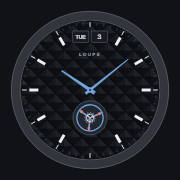
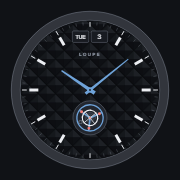
feat(waitlist): a larger, truer balance wheel in the tourbillon (#9)
Hoover: the balance was small for a balance wheel. As on a real
tourbillon it is now the cage's largest part: a 4.7-unit rim (was 2.2)
with four timing weights and four arms, over a hairspring whose inner
end turns with the balance while its outer end stays pinned, so the
coils breathe as it swings. The escape wheel moves from under it to the
cage's edge between two arms, where its pinion meets the seconds wheel.
On an iPhone 14 the balance is now ~16px across (was ~7px).

Link preview and home-screen icon re-rendered.

Claude-Session: https://claude.ai/code/session_01Tzsutu7ip7YtFbSLQxWpkM

Changed region(s): [[0.4167, 0.6111, 0.5556, 0.7222]]

diff --git a/README.md b/README.md
@@ -14,7 +14,7 @@ This repo is temporary on purpose. When the beta waitlist closes, unpublish Page
 - A hidden field catches form-filling bots: if it's filled, the page shows success and sends nothing.
 - No beta date anywhere in the copy; `npm run check` fails the build if one appears.
 - The dial and the Côtes de Genève background are the app's Welcome artwork, vendored from loupe-web (`src/vendor/`). Colours, type (Geist, self-hosted) and spacing are the app's design tokens, light and dark.
-- The dial is a live watch showing the visitor's own time: the device clock in its local time zone, read afresh at every beat, so it's right after sleep, a hidden tab or a time-zone change, and the day-date turns over at their midnight. As in the app, the tourbillon is the seconds: its cage turns once a minute, advancing eight beats a second like a 28,800 bph movement. Inside it the balance wheel swings four times a second (120° each way) and passes through rest on every beat, the instant the cage ticks, drawn every frame from a sub-millisecond copy of the device clock with one 60 Hz frame of motion blur. `src/dial.js` draws the still face once and keeps it, so a frame only redraws the tourbillon and hands (about 0.3 ms on a slow phone). Nothing is drawn while the tab is hidden or the dial is off screen. With Reduce Motion the balance is still and the dial is redrawn once at each new minute.
+- The dial is a live watch showing the visitor's own time: the device clock in its local time zone, read afresh at every beat, so it's right after sleep, a hidden tab or a time-zone change, and the day-date turns over at their midnight. As in the app, the tourbillon is the seconds: its cage turns once a minute, advancing eight beats a second like a 28,800 bph movement. Inside it the balance wheel (drawn larger than the app's, with timing weights and a breathing hairspring; the escape wheel sits at the cage's edge) swings four times a second (120° each way) and passes through rest on every beat, the instant the cage ticks, drawn every frame from a sub-millisecond copy of the device clock with one 60 Hz frame of motion blur. `src/dial.js` draws the still face once and keeps it, so a frame only redraws the tourbillon and hands (about 0.3 ms on a slow phone). Nothing is drawn while the tab is hidden or the dial is off screen. With Reduce Motion the balance is still and the dial is redrawn once at each new minute.
 - The vendored `drawDial` is split into `drawDialFace` + `drawDialMovement` (same drawing; a browser test checks the two layers match it pixel for pixel).
 - Pinch-zoom: the stripes are sized to the page's own width, not `innerWidth` (Safari shrinks that while zoomed), and `src/keyboard.js` ignores the visible area shrinking while zoomed, so zooming in and out never cuts the background short or adds keyboard room.
 - `src/og-image.jpg` (link preview; JPEG because WhatsApp drops previews over ~300 KB) and `src/apple-touch-icon.png` (home-screen icon) are rendered from the same drawing code: `node scripts/render-images.mjs`.
